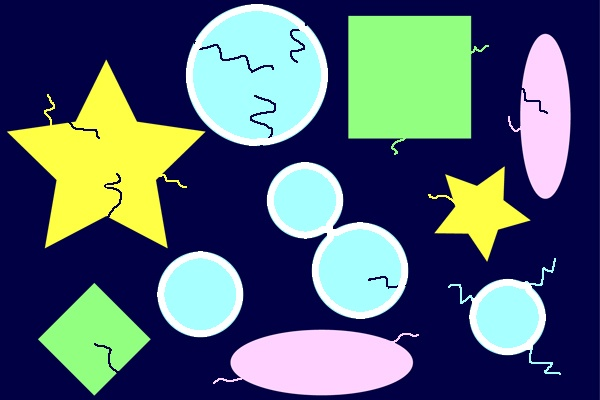
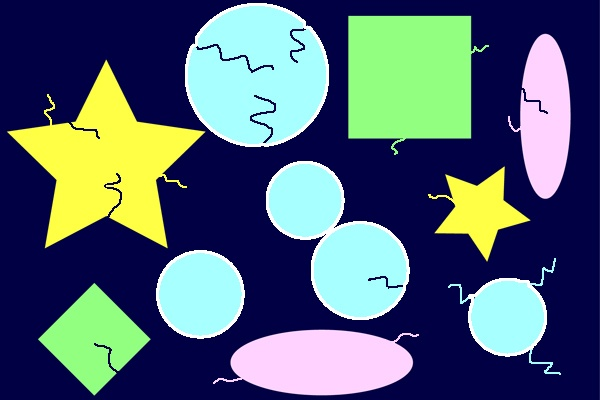
課題2完成

diff --git a/06_2024-05-28/dip06_kadai2.cpp b/06_2024-05-28/dip06_kadai2.cpp
@@ -26,11 +26,6 @@ int main(int argc, const char *argv[]) {
     //"sourceImage"のコピーを"contourImage"に出力
     contourImage = sourceImage.clone();
 
-    //膨張収縮処理
-    cv::Mat element = cv::getStructuringElement(cv::MORPH_RECT, cv::Size(3, 3));
-    cv::dilate(binImage, binImage, element, cv::Point(-1, -1), 1);
-    cv::erode(binImage, binImage, element, cv::Point(-1, -1), 4);
-
 
     // ④輪郭点格納用配列、輪郭の階層用配列の確保
     // 輪郭点格納用配列
@@ -49,19 +44,69 @@ int main(int argc, const char *argv[]) {
 
     int circleCount = 0;
 
+    //画像の背景色を取得
+    cv::Vec3b bgColor = sourceImage.at<cv::Vec3b>(0, 0);
+
+
     // 輪郭データ"contour"を順次描画
     for (int i = 0; i < contours.size(); i++) {
         // 円形度を計算
         circularity = 4.0 * M_PI * cv::contourArea(contours[i]) / (cv::arcLength(contours[i], true) * cv::arcLength(contours[i], true));
 
-
-        // 円形度が一定以上かつ、一定面積以上の図形のみを描画
-        if (circularity >= 0.8) {
-            cv::drawContours(contourImage, contours, i, cv::Scalar(255, 255, 255), 5, 8);
+        // 円形度が0.8以上の図形のみをcircleContoursに格納
+        // 面積が1000以上
+        if (circularity >= 0.8 && cv::contourArea(contours[i]) >= 1000){
+            circleContours.push_back(contours[i]);
             circleCount++;
-            printf("円%d: Length = %.0f, Area = %.0f\n", circleCount, cv::arcLength(contours[i], true), cv::contourArea(contours[i]));
+
+            // 背景色で塗りつぶしを行う
+            cv::drawContours(sourceImage, circleContours, -1, bgColor, -1);
         }
     }
+
+    // countourImageをグレースケールに変換
+    cv::cvtColor(sourceImage, grayImage, cv::COLOR_BGR2GRAY);
+
+    // 2値化
+    cv::threshold(grayImage, binImage, 50, 255, cv::THRESH_BINARY);
+
+    //膨張収縮処理
+    cv::Mat element = cv::getStructuringElement(cv::MORPH_RECT, cv::Size(3, 3));
+    cv::erode(binImage, binImage, element, cv::Point(-1, -1), 1);
+    cv::dilate(binImage, binImage, element, cv::Point(-1, -1), 1);
+
+    cv::dilate(binImage, binImage, element, cv::Point(-1, -1), 2);
+    cv::erode(binImage, binImage, element, cv::Point(-1, -1), 2);
+
+    tmpImage = binImage.clone();
+
+    cv::findContours(binImage, contours, cv::RETR_LIST, cv::CHAIN_APPROX_NONE);
+
+    for (int i = 0; i < contours.size(); i++) {
+        // 円形度を計算
+        circularity = 4.0 * M_PI * cv::contourArea(contours[i]) / (cv::arcLength(contours[i], true) * cv::arcLength(contours[i], true));
+
+        printf("circularity: %f\n", circularity);
+
+        // 円形度が0.8以上の図形のみをcircleContoursに格納
+        if (circularity >= 0.8  && cv::contourArea(contours[i]) >= 1000 ) {
+            circleContours.push_back(contours[i]);
+            circleCount++;
+
+            // 背景色で塗りつぶしを行う
+            cv::drawContours(sourceImage, circleContours, -1, bgColor, -1);
+        }
+    }
+
+    // 輪郭データ"contour"を順次描画
+    for (int i = 0; i < circleContours.size(); i++) {
+        // "contourImage"に"contours"の i 番目の領域の輪郭を描画(白色，線幅2，8連結)
+        cv::drawContours(contourImage, circleContours, i, cv::Scalar(255, 255, 255), 2, 8);
+
+        printf("円%d: Length=%.0f, Area=%.0f\n", i + 1, cv::arcLength(circleContours[i], true), cv::contourArea(circleContours[i]));
+    }
+
+
     // ⑥ウィンドウを生成して各画像を表示
     // 原画像
     cv::namedWindow("Source");       // ウィンドウの生成
